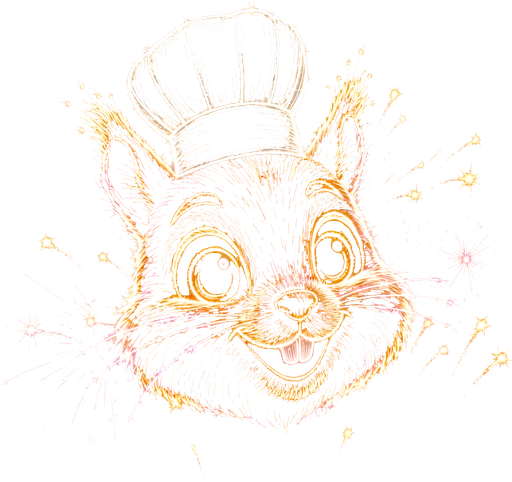
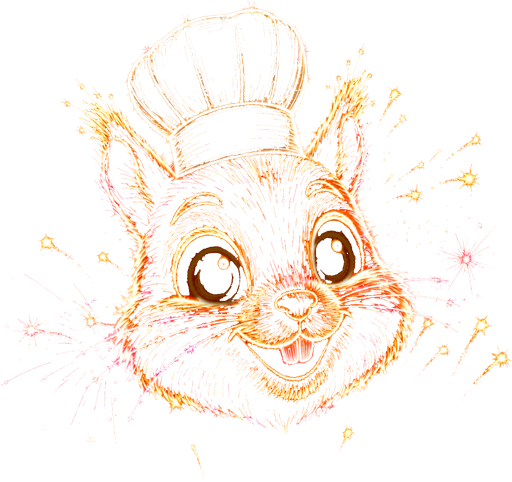
Replace Sam, Carrie, Sanny, Peggy art; refresh web-characters.
512px web PNGs; cache bust web-chars2.

diff --git a/js/game.js b/js/game.js
@@ -29,7 +29,7 @@
   }
 
   /** Bump when character PNGs change (GitHub Pages / browser cache). */
-  const REWARD_ASSET_V = "web-chars1";
+  const REWARD_ASSET_V = "web-chars2";
 
   function assetWithCacheBust(path) {
     if (!path) return path;
